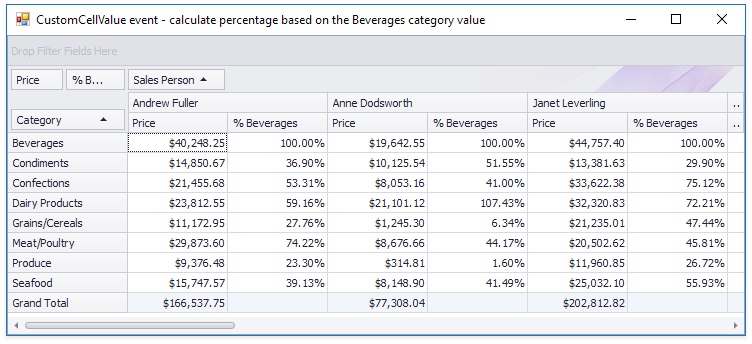
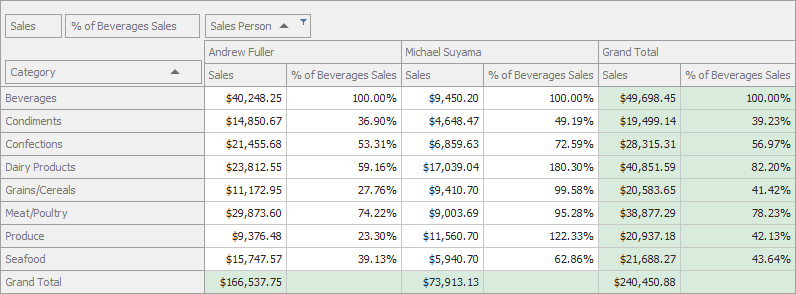
update project

diff --git a/CS/WinAppCustomCellValue/Form1.Designer.cs b/CS/WinAppCustomCellValue/Form1.Designer.cs
@@ -76,7 +76,7 @@
             // 
             this.fieldExtendedPrice1.Area = DevExpress.XtraPivotGrid.PivotArea.DataArea;
             this.fieldExtendedPrice1.AreaIndex = 0;
-            this.fieldExtendedPrice1.Caption = "Price";
+            this.fieldExtendedPrice1.Caption = "Sales";
             dataSourceColumnBinding2.ColumnName = "Extended Price";
             this.fieldExtendedPrice1.DataBinding = dataSourceColumnBinding2;
             this.fieldExtendedPrice1.Name = "fieldExtendedPrice1";

diff --git a/CS/WinAppCustomCellValue/Form1.cs b/CS/WinAppCustomCellValue/Form1.cs
@@ -12,7 +12,7 @@ namespace WinAppCustomCellValue {
             PivotGridField fieldPercentOfBeverages = new PivotGridField() {
                 FieldName = "Extended Price",
                 Area = PivotArea.DataArea,
-                Caption = "% Beverages",
+                Caption = "% of Beverages Sales",
                 Name = "PercentOfBeverages"
             };
 
